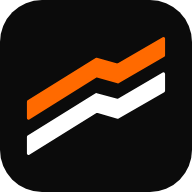
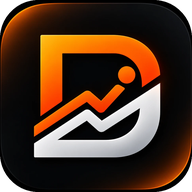
Ny logga och slogan: Ditt mål. Ditt drive.
Ikoner i alla storlekar från den nya loggan: genomskinliga hörn för
appen och webbläsaren, egen ikon för iPhone utan genomskinlighet och
en maskerbar ikon för Android med loggan i den säkra mitten.
Sloganen byts i appen, manifestet och README.

Claude-Session: https://claude.ai/code/session_01KB12Fb6zv8pA83rEfTYAPd

diff --git a/app.js b/app.js
@@ -760,7 +760,7 @@ const VIEWS = {
     const picked = draft.weekdays.length, ok = !fixed || picked === n;
     const sorted = draft.weekdays.slice().sort((a, b) => a - b);
     const p = S.profile;
-    return `${S.setupDone ? "" : `<div class="brand"><img src="icons/icon-192.png" alt=""><div><b>Driv</b><span class="muted">Hitta ditt driv</span></div></div>`}
+    return `${S.setupDone ? "" : `<div class="brand"><img src="icons/icon-192.png" alt=""><div><b>Driv</b><span class="muted">Ditt mål. Ditt drive.</span></div></div>`}
       <h1>${S.setupDone ? "Ditt upplägg" : "Välj ditt upplägg"}</h1>
       <div class="card"><div class="row between"><h2>1. Vilket upplägg?</h2>
           <button class="small" data-progtoggle aria-expanded="${progOpen}">${progOpen ? "Fäll ihop" : `Visa alla ${Object.keys(PROGRAMS).length}`}</button></div>

diff --git a/index.html b/index.html
@@ -4,10 +4,10 @@
 <meta charset="utf-8">
 <meta name="viewport" content="width=device-width, initial-scale=1, viewport-fit=cover">
 <meta name="theme-color" content="#0b0b0b">
-<meta name="description" content="Driv – hitta ditt driv. Träning, dailys och kost i en app.">
+<meta name="description" content="Driv – ditt mål, ditt drive. Träning, dailys och kost i en app.">
 <link rel="manifest" href="manifest.webmanifest">
-<link rel="icon" href="icons/icon.svg" type="image/svg+xml">
-<link rel="apple-touch-icon" href="icons/icon-192.png">
+<link rel="icon" href="icons/favicon.png" type="image/png">
+<link rel="apple-touch-icon" href="icons/apple-touch-icon.png">
 <meta name="apple-mobile-web-app-capable" content="yes">
 <meta name="apple-mobile-web-app-title" content="Driv">
 <title>Driv</title>

diff --git a/sw.js b/sw.js
@@ -1,7 +1,7 @@
 // Gör appen tillgänglig offline: filerna hämtas från nätet när det går, annars från cachen
-const CACHE = "driv-v4";
+const CACHE = "driv-v5";
 const FILES = ["./", "index.html", "app.js", "figur.js", "ovningar.js", "livsmedel.js", "mat.js", "config.js",
-  "manifest.webmanifest", "icons/icon.svg", "icons/icon-192.png", "icons/icon-512.png", "icons/icon-maskable-512.png"];
+  "manifest.webmanifest", "icons/favicon.png", "icons/apple-touch-icon.png", "icons/icon-192.png", "icons/icon-512.png", "icons/icon-maskable-512.png"];
 
 self.addEventListener("install", e => {
   e.waitUntil(caches.open(CACHE).then(c => c.addAll(FILES)).then(() => self.skipWaiting()));

diff --git a/README.md b/README.md
@@ -2,7 +2,7 @@
 
 # Driv
 
-**Hitta ditt driv.** Träning, dailys och kost i en app, med plus eller minus mot förra veckan så att du ser att du blir bättre. Inga konton och inga beroenden: allt sparas i din webbläsare.
+**Ditt mål. Ditt drive.** Träning, dailys och kost i en app, med plus eller minus mot förra veckan så att du ser att du blir bättre. Inga konton och inga beroenden: allt sparas i din webbläsare.
 
 **Öppna appen:** https://mamattisson-png.github.io/driv/
 
